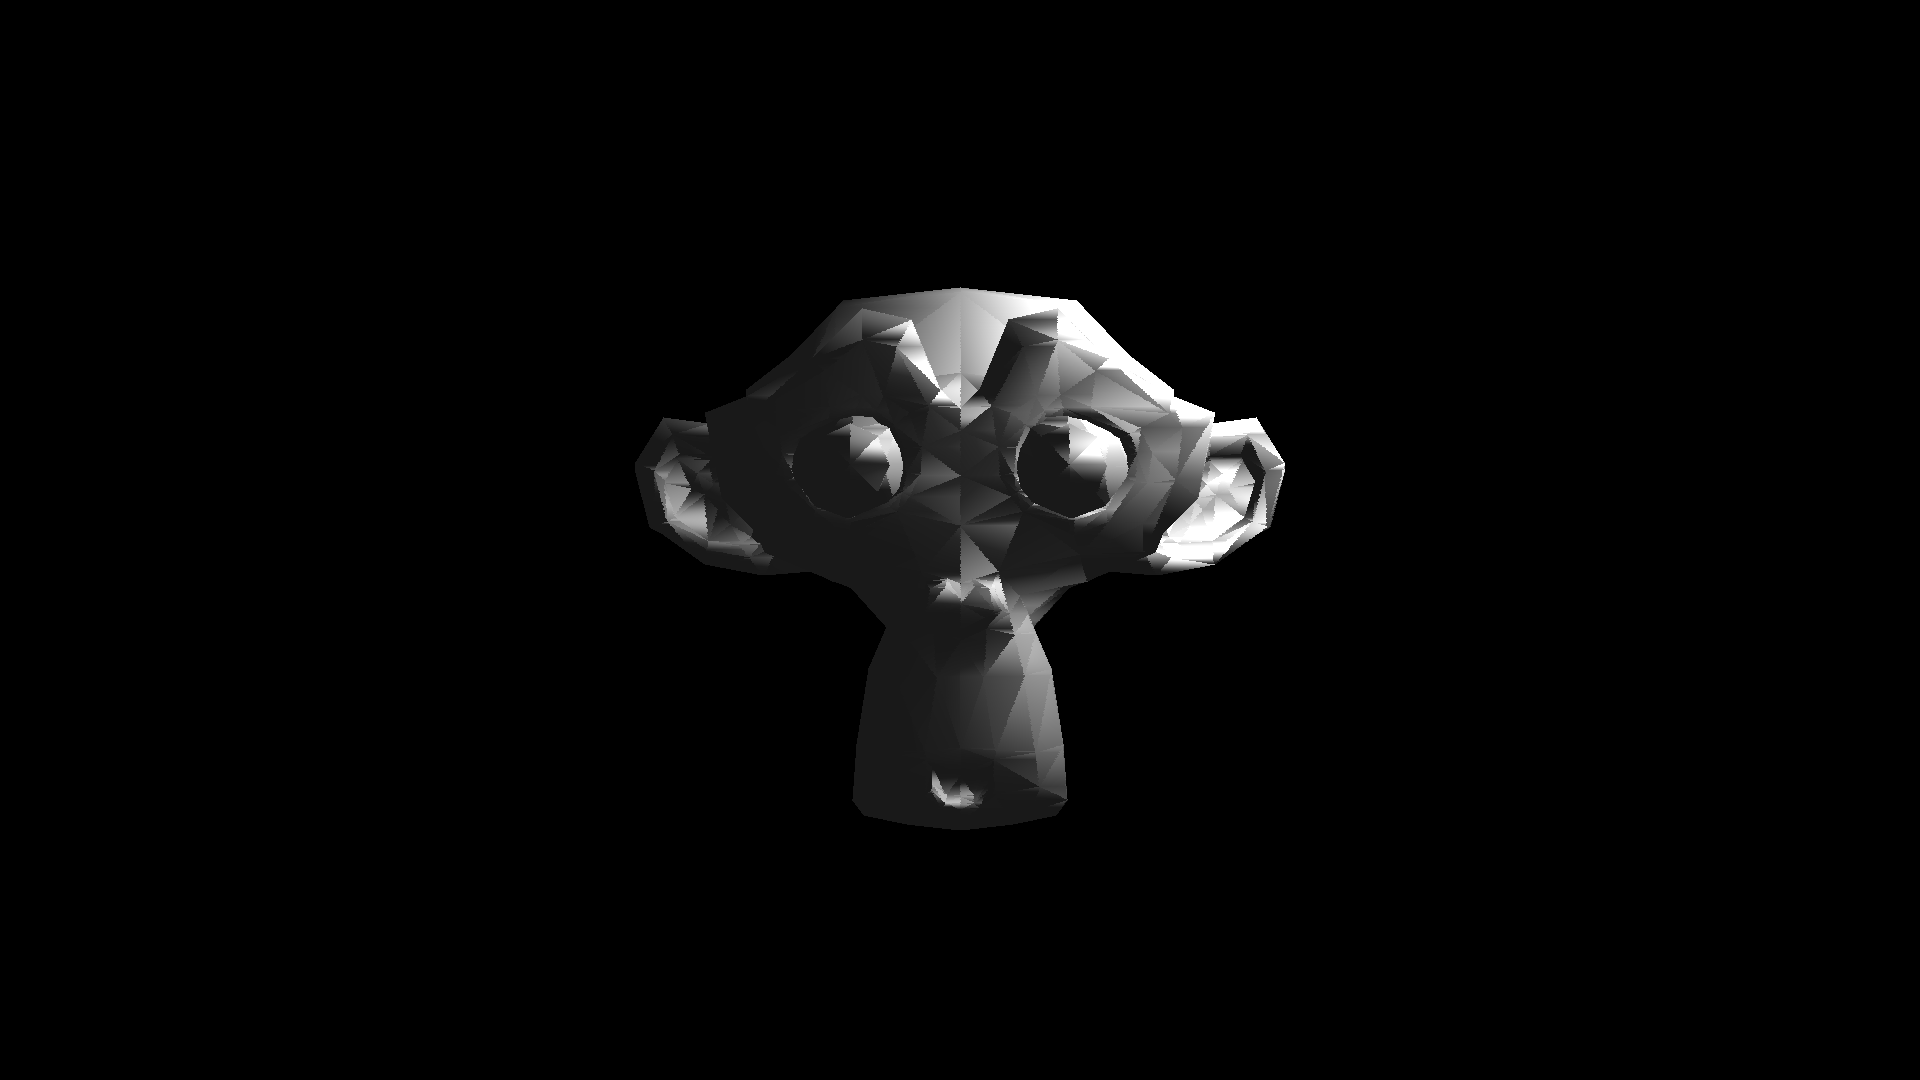
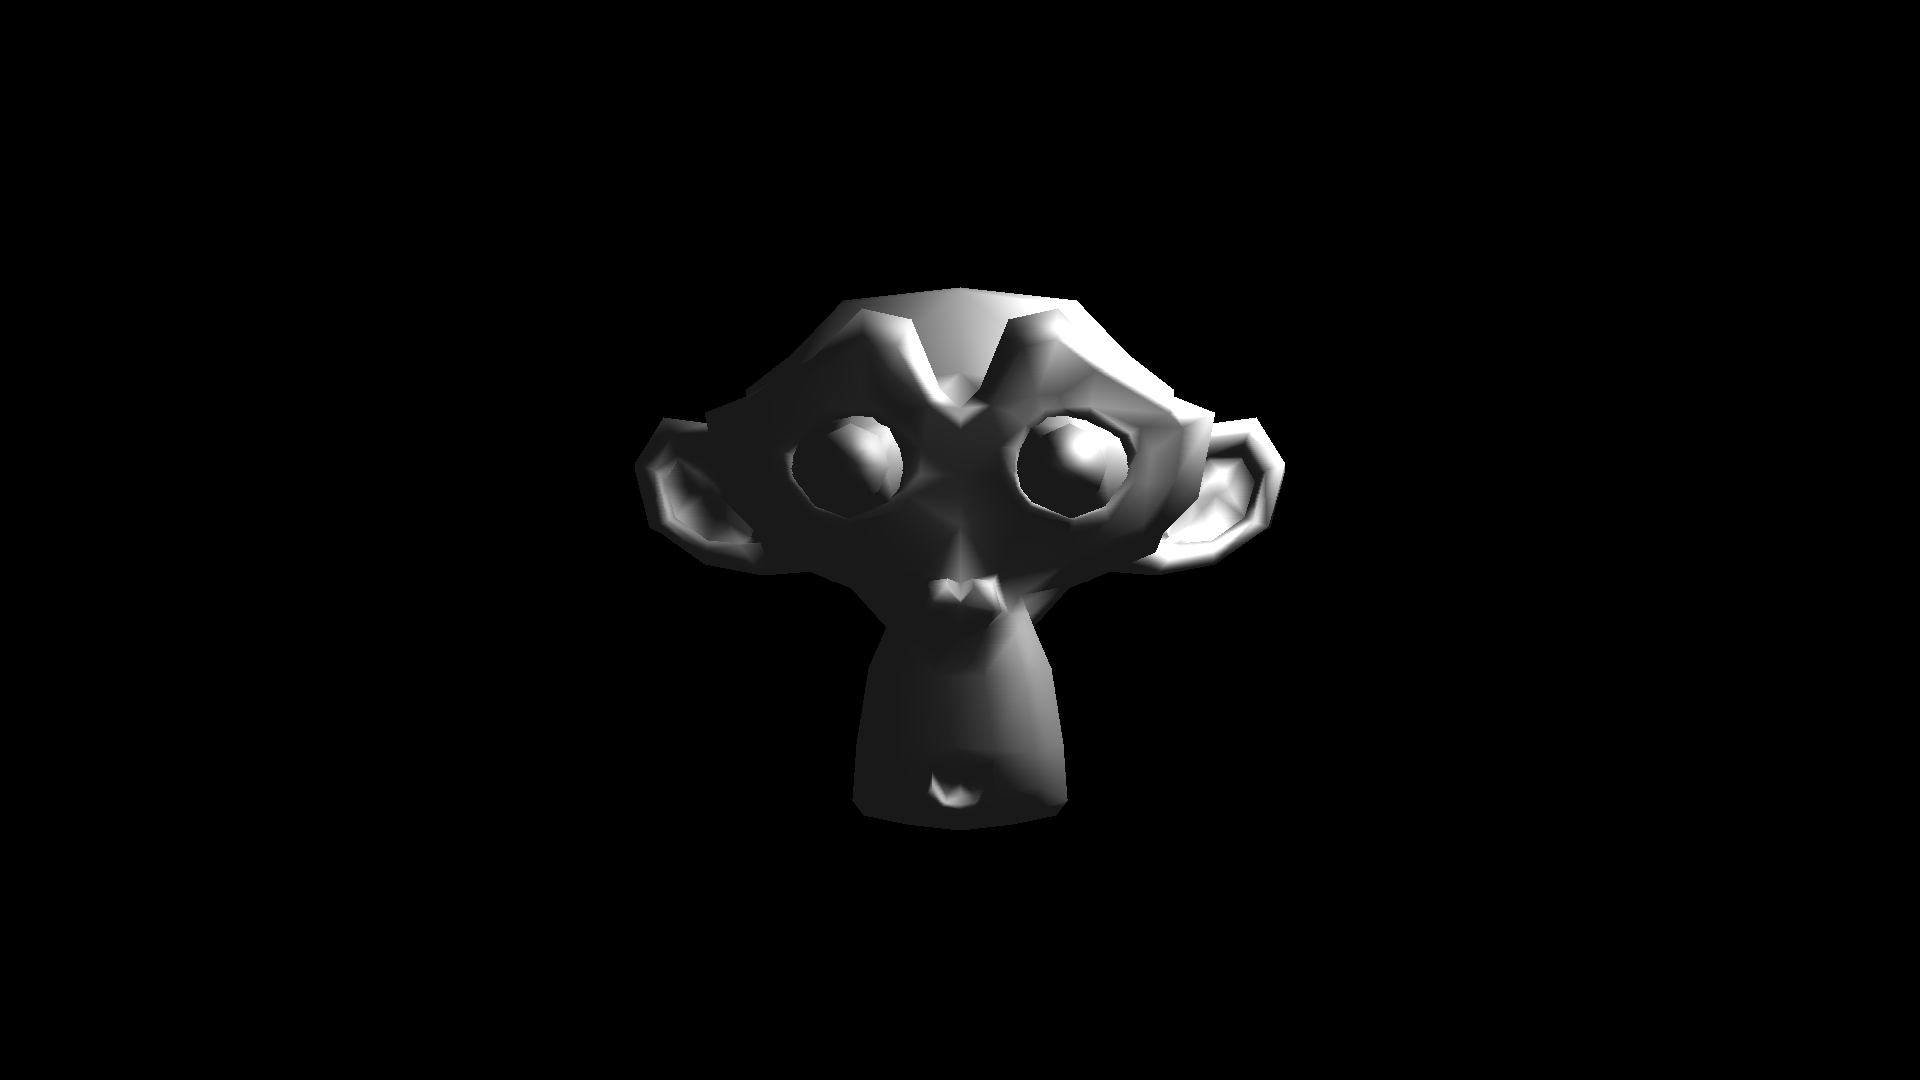
scanline Z-Buffer finished

diff --git a/src/ScanlineZBuffer.cpp b/src/ScanlineZBuffer.cpp
@@ -15,33 +15,32 @@ void ScanlineZBuffer::render(std::vector<Vertex> &vertices, std::vector<unsigned
 
     float *zBuffer = new float[width];
     unsigned char *output = new unsigned char[height * width * 3];
-    auto iter = polygons.begin();
-    for (int scanline = 0; scanline < height; scanline++) {
-        for (int i = 0; i < width; i++) {
+    memset(output, 0, sizeof(unsigned char) * height * width * 3);
+    int index = 0;
+    for (int scanline = polygons.begin()->getY(); scanline < height; scanline++) {
+        for (int i = 0; i < width; i++)
             zBuffer[i] = FLT_MAX;
-            for (int j = 0; j < 3; j++)
-                output[(scanline * width + i) * 3 + j] = 0;
-        }
-        for (; iter != polygons.end() && iter->getY() == scanline; iter++)
-            activePolygons.insert(std::make_pair(iter->getY() + iter->getDeltaY(), ActivePolygon(*iter)));
-        for (std::pair<const int, ActivePolygon> &pair : activePolygons) {
-            pair.second.check(scanline);
-            int minX, maxX;
-            float z, dz;
-            glm::vec3 p, dp, n, dn;
-            pair.second.intersection(minX, maxX, z, dz, p, dp, n, dn);
-            for (int i = std::max(minX, 0); i <= std::min(maxX, width - 1); i++) {
-                if (z < zBuffer[i]) {
-                    zBuffer[i] = z;
-                    glm::vec3 color = calculateColor(p, n);
-                    for (int j = 0; j < 3; j++)
-                        output[(scanline * width + i) * 3 + j] = (unsigned char)(color[j] * 255);
+        for (; index < polygons.size() && polygons[index].getY() == scanline; index++)
+            activePolygons.insert(std::make_pair(polygons[index].getY() + polygons[index].getDeltaY(), ActivePolygon(polygons[index])));
+        if (scanline >= 0)
+            for (std::pair<const int, ActivePolygon> &pair : activePolygons) {
+                pair.second.check(scanline);
+                int minX, maxX;
+                float z, dz;
+                glm::vec3 p, dp, n, dn;
+                pair.second.intersection(minX, maxX, z, dz, p, dp, n, dn);
+                for (int i = minX; i <= maxX && i < width; i++) {
+                    if (i >= 0 && z < zBuffer[i]) {
+                        zBuffer[i] = z;
+                        glm::vec3 color = calculateColor(p, n);
+                        for (int j = 0; j < 3; j++)
+                            output[(scanline * width + i) * 3 + j] = (unsigned char)(color[j] * 255);
+                    }
+                    z += dz;
+                    p += dp;
+                    n += dn;
                 }
-                z += dz;
-                p += dp;
-                n += dn;
             }
-        }
         while (!activePolygons.empty() && activePolygons.begin()->first == scanline)
             activePolygons.erase(activePolygons.begin());
         for (std::pair<const int, ActivePolygon> &pair : activePolygons)

diff --git a/src/ActivePolygon.cpp b/src/ActivePolygon.cpp
@@ -42,6 +42,6 @@ void ActivePolygon::intersection(int &minX, int &maxX, float &z, float &dz, glm:
         p = left.getP();
         dp = (right.getP() - left.getP()) / deltaX;
         n = left.getN();
-        dn = (right.getP() - left.getP()) / deltaX;
+        dn = (right.getN() - left.getN()) / deltaX;
     }
 }
